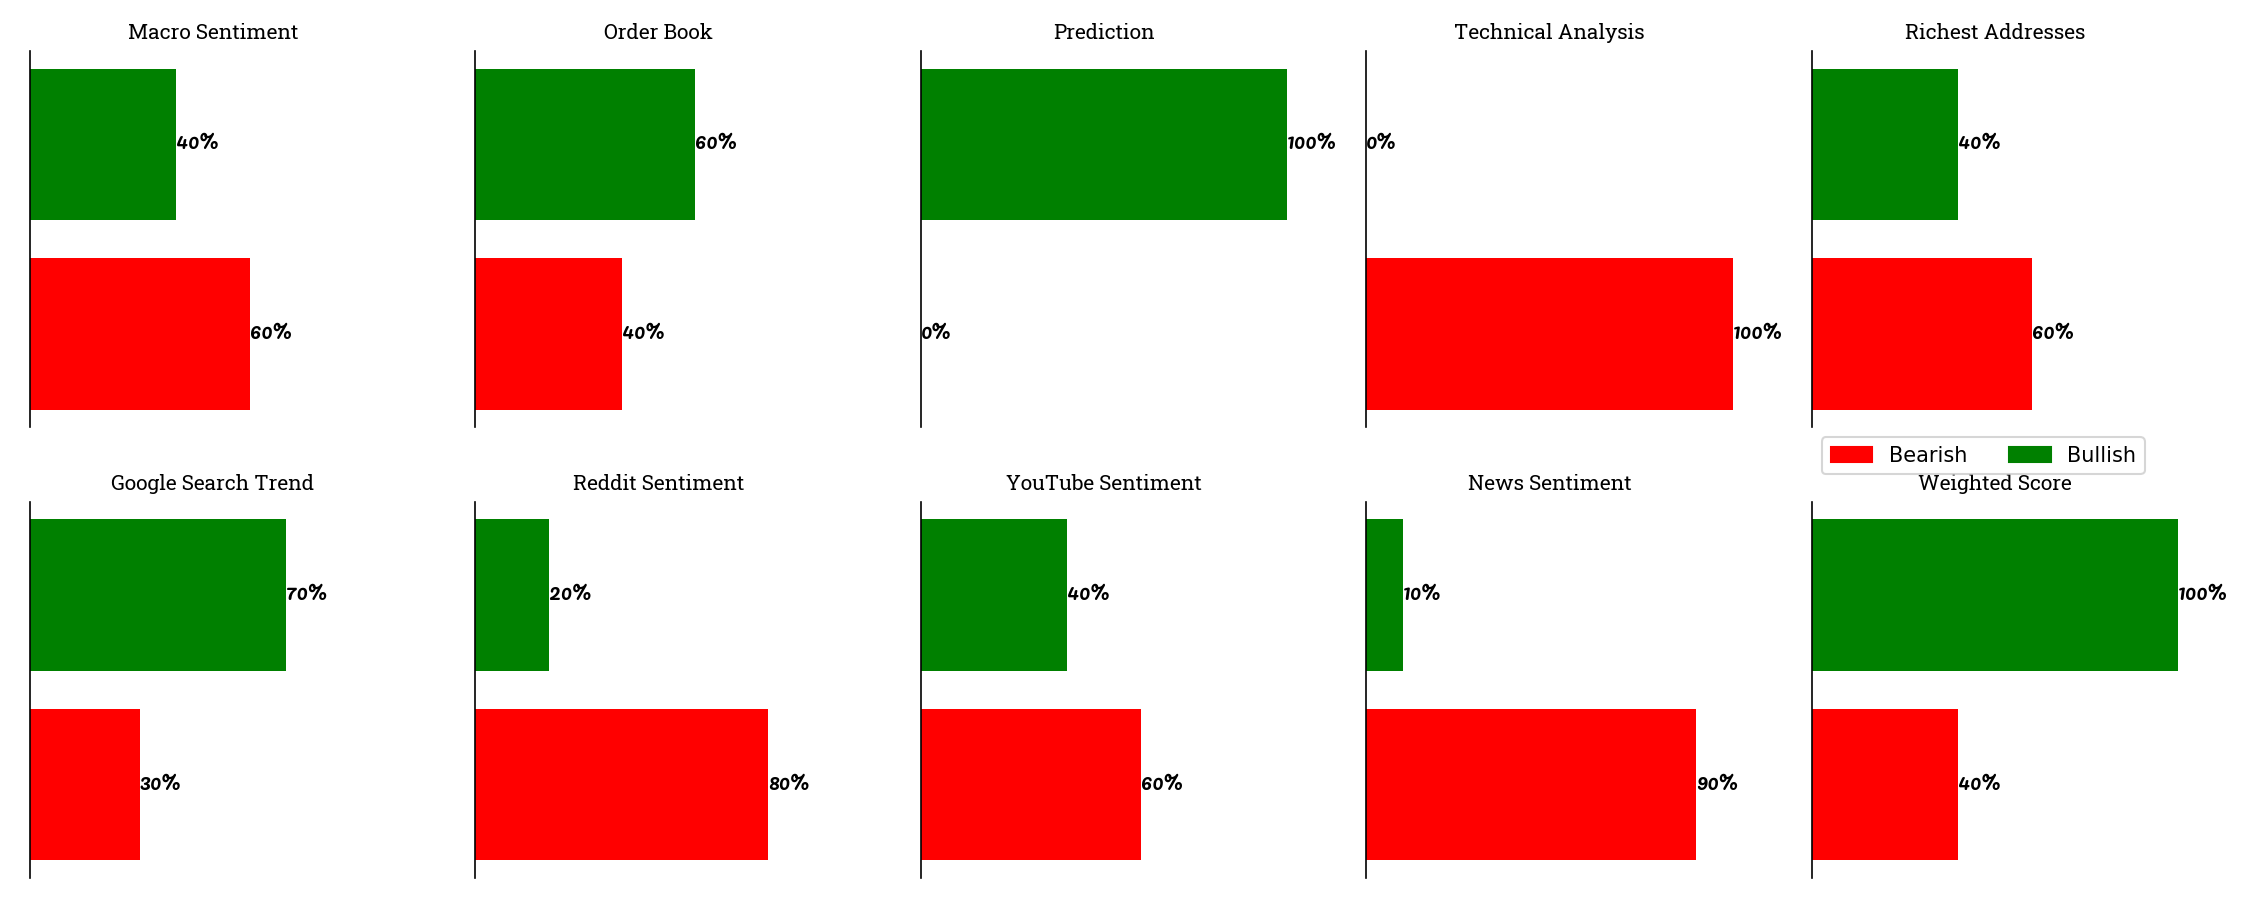
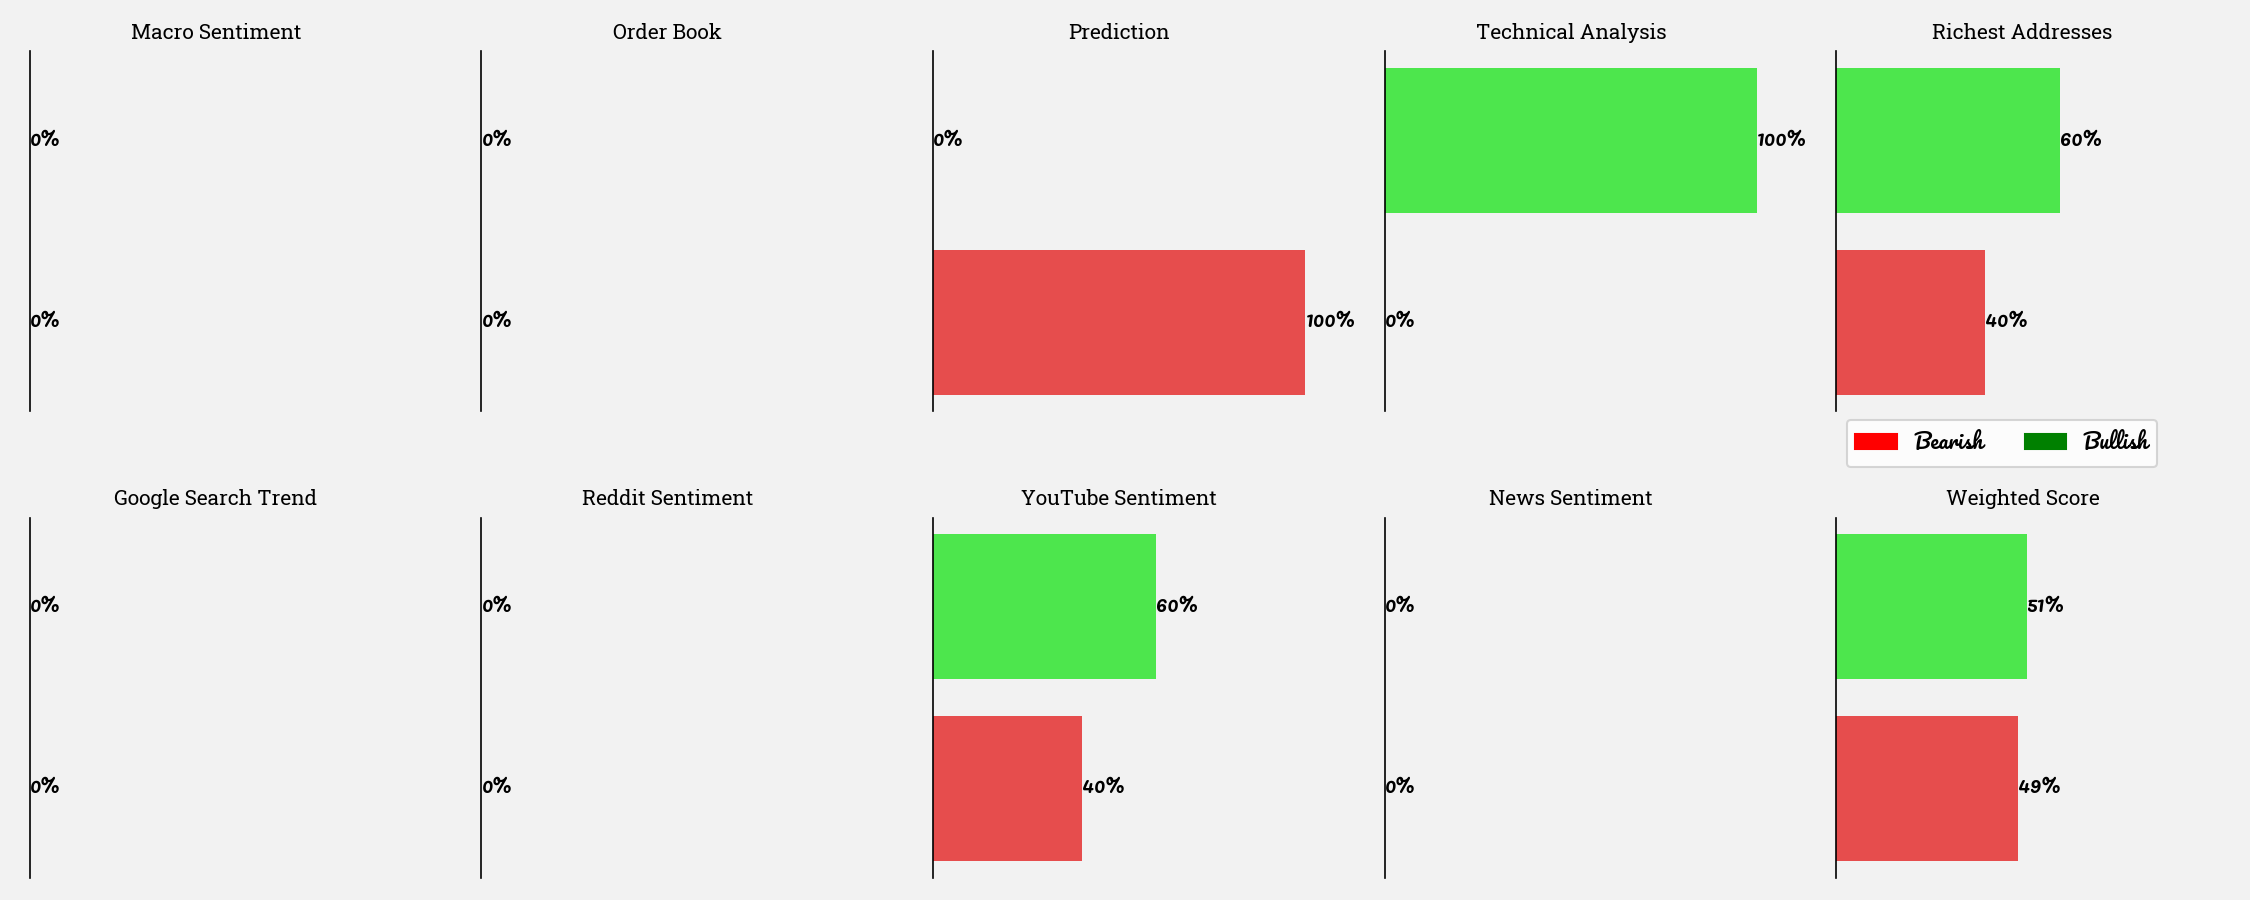
11 April

diff --git a/visualization.py b/visualization.py
@@ -2,35 +2,37 @@ import matplotlib.pyplot as plt
 import matplotlib.patches as mpatches
 import matplotlib.font_manager as fm
 from matplotlib import rc
+import plotly.graph_objects as go
+from plotly.subplots import make_subplots
 
-
-custom_font_path = "Pacifico-Regular.ttf"
+custom_font_path = "RobotoSlab.ttf"
 custom_font = fm.FontProperties(fname=custom_font_path)
 rc('font', family=custom_font.get_name())
 
-custom_font_path1 = "RobotoSlab.ttf"
+custom_font_path1 = "Pacifico-Regular.ttf"
 custom_font1 = fm.FontProperties(fname=custom_font_path1)
 rc('font', family=custom_font1.get_name())
 
 
-def draw_gauge_chart(title, bullish, bearish, ax):
-    labels = ['Bear', 'Bull']
-    values = [bearish, bullish]
-    colors = ['red', 'green']
-
-    ax.barh(labels, values, color=colors)
-    ax.set_xlim(0, 1)
-    ax.get_xaxis().set_ticks([])  # Remove x-axis tick labels
-    ax.set_title(title, fontsize=12, fontweight='bold', fontproperties=custom_font1)
-
-    for index, value in enumerate(values):
-        ax.text(value, index, f"{   round(value * 100)}%", fontsize=10, fontweight='bold', verticalalignment='center',
-                fontproperties=custom_font)
-
-    ax.spines['right'].set_visible(False)
-    ax.spines['top'].set_visible(False)
-    ax.spines['bottom'].set_visible(False)
-    ax.get_yaxis().set_ticks([])  # Remove y-axis tick labels
+def create_gauge_chart(title, bullish, bearish):
+    return go.Indicator(
+        mode="gauge+number",
+        value=bullish * 100,
+        title={"text": title},
+        domain={"x": [0, 1], "y": [0, 1]},
+        gauge={
+            "axis": {"range": [0, 100]},
+            "bar": {"color": "darkblue"},
+            "steps": [
+                {"range": [0, 100], "color": "lightgray"}
+            ],
+            "threshold": {
+                "line": {"color": "red", "width": 4},
+                "thickness": 0.75,
+                "value": 50}
+        },
+        number={"suffix": "%", "font": {"size": 14}},
+    )
 
 
 def visualize_charts(macro_bullish, macro_bearish, order_book_bullish, order_book_bearish, prediction_bullish,
@@ -38,28 +40,29 @@ def visualize_charts(macro_bullish, macro_bearish, order_book_bullish, order_boo
                      richest_addresses_bearish, google_search_bullish, google_search_bearish, reddit_bullish,
                      reddit_bearish, youtube_bullish, youtube_bearish, news_bullish, news_bearish,
                      weighted_score_up, weighted_score_down):
+    fig = make_subplots(rows=2, cols=5,
+                        specs=[[{"type": "indicator"}] * 5] * 2,
+                        subplot_titles=["Macro Sentiment", "Order Book", "Prediction", "Technical Analysis",
+                                        "Richest Addresses", "Google Search Trend", "Reddit Sentiment",
+                                        "YouTube Sentiment", "News Sentiment", "Weighted Score"])
 
-    fig, axs = plt.subplots(2, 5, figsize=(15, 6))
+    fig.add_trace(create_gauge_chart("Macro Sentiment", macro_bullish, macro_bearish), row=1, col=1)
+    fig.add_trace(create_gauge_chart("Order Book", order_book_bullish, order_book_bearish), row=1, col=2)
+    fig.add_trace(create_gauge_chart("Prediction", prediction_bullish, prediction_bearish), row=1, col=3)
+    fig.add_trace(create_gauge_chart("Technical Analysis", technical_bullish, technical_bearish), row=1, col=4)
+    fig.add_trace(create_gauge_chart("Richest Addresses", richest_addresses_bullish, richest_addresses_bearish), row=1, col=5)
+    fig.add_trace(create_gauge_chart("Google Search Trend", google_search_bullish, google_search_bearish), row=2, col=1)
+    fig.add_trace(create_gauge_chart("Reddit Sentiment", reddit_bullish, reddit_bearish), row=2, col=2)
+    fig.add_trace(create_gauge_chart("YouTube Sentiment", youtube_bullish, youtube_bearish), row=2, col=3)
+    fig.add_trace(create_gauge_chart("News Sentiment", news_bullish, news_bearish), row=2, col=4)
+    fig.add_trace(create_gauge_chart("Weighted Score", weighted_score_up, weighted_score_down), row=2, col=5)
 
-    # Create custom legend
-    red_patch = mpatches.Patch(color='red', label='Bearish')
-    green_patch = mpatches.Patch(color='green', label='Bullish')
-    plt.legend(handles=[red_patch, green_patch], loc='upper left', bbox_to_anchor=(0, 1.2), ncol=2)
+    fig.update_layout(
+        title_text="Gauge Charts",
+        font=dict(size=10)
+    )
 
-    draw_gauge_chart("Macro Sentiment", macro_bullish, macro_bearish, axs[0, 0])
-    draw_gauge_chart("Order Book", order_book_bullish, order_book_bearish, axs[0, 1])
-    draw_gauge_chart("Prediction", prediction_bullish, prediction_bearish, axs[0, 2])
-    draw_gauge_chart("Technical Analysis", technical_bullish, technical_bearish, axs[0, 3])
-    draw_gauge_chart("Richest Addresses", richest_addresses_bullish, richest_addresses_bearish, axs[0, 4])
-    draw_gauge_chart("Google Search Trend", google_search_bullish, google_search_bearish, axs[1, 0])
-    draw_gauge_chart("Reddit Sentiment", reddit_bullish, reddit_bearish, axs[1, 1])
-    draw_gauge_chart("YouTube Sentiment", youtube_bullish, youtube_bearish, axs[1, 2])
-    draw_gauge_chart("News Sentiment", news_bullish, news_bearish, axs[1, 3])
-    draw_gauge_chart("Weighted Score", weighted_score_up, weighted_score_down, axs[1, 4])
-
-    plt.tight_layout()
-    plt.savefig("chart.png", dpi=150)  # Save the chart as a PNG image on the server
-    plt.show()
+    fig.show()
 
 
 if __name__ == "__main__":

diff --git a/main_decision.py b/main_decision.py
@@ -1,6 +1,8 @@
 import logging
 import pandas as pd
 from time import sleep
+import matplotlib.pyplot as plt
+
 
 from reddit import compare
 from technical_analysis import technical_analyse
@@ -14,7 +16,7 @@ from order_book import get_probabilities
 from trading_decision import make_trading_decision
 from long_position_open import long_position
 from short_position_open import short_position
-from  visualization import visualize_charts
+from visualization import visualize_charts
 
 # Constants
 LOOP_COUNTER = 0
@@ -76,12 +78,14 @@ while True:
         youtube_bullish, youtube_bearish,
         news_bullish, news_bearish)
 
+    # Visualization
     visualize_charts(macro_bullish, macro_bearish, order_book_bullish, order_book_bearish, prediction_bullish,
                      prediction_bearish, technical_bullish, technical_bearish, richest_addresses_bullish,
                      richest_addresses_bearish, google_search_bullish, google_search_bearish, reddit_bullish,
                      reddit_bearish, youtube_bullish, youtube_bearish, news_bullish, news_bearish,
                      weighted_score_up, weighted_score_down)
 
+    # Trading decision
     if weighted_score_up > weighted_score_down and weighted_score_up > long_threshold:
         logging.info('Opening a long position')
         profit_after_trade, loss_after_trade = long_position()
@@ -93,4 +97,4 @@ while True:
         profit_after_trade, loss_after_trade = short_position()
         logging.info(f"profit_after_trade:{profit_after_trade}, "f"loss_after_trade:{loss_after_trade}")
 
-    sleep(10)
+    sleep(5)

diff --git a/handy_modules.py b/handy_modules.py
@@ -45,7 +45,7 @@ def get_bitcoin_price() -> int:
         try:
             response = requests.get(BINANCE_ENDPOINT_PRICE, params={'symbol': 'BTCUSDT'})
             if response.status_code == 200:
-                return int(response.json()['price'])
+                return int(float(response.json()['price']))
         except requests.exceptions.RequestException as e:
             errors.append(f"Error: Could not connect to Binance API:{e}")
 
